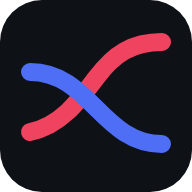
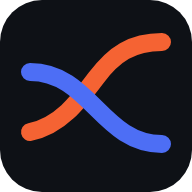
D10 P3: run is coral, with its own ink, a run ramp that never reads as alarm, and a job for volt (RCA-035)
Run colour #e44f27 light, #f56333 dark (was crimson, 12 CIEDE2000 from the status red). Light coral nudged
from the design's #e8532b so the level ladder's ring clears 3:1 on its band; that band's alpha drops to 14.
New --run-ink, --highlight and --highlight-ink. New run zone ramp, orange into umber, hand-fitted to the
zone rules (steps 2-3 light nudged for colour-blind separation). zoneRamp rule changed as designed; ride
unchanged. Icons, social card, privacy page and share card hexes follow. Digests unchanged.

Changed region(s): [[0.4062, 0.1562, 0.9062, 0.5], [0.0938, 0.5, 0.4375, 0.75]]

diff --git a/apps/web/src/styles/zoneRamp.test.ts b/apps/web/src/styles/zoneRamp.test.ts
@@ -24,9 +24,20 @@ const TEXT = 4.5
  * and each step is also numbered.
  */
 const NEIGHBOUR: Record<string, number> = { light: 7, dark: 5 }
-/** In dark, the least chroma (OKLCH) of any step, and the lightest a step may be: effort never fades to pale. */
+/** Ride dark: the least chroma (OKLCH) of any step, and the lightest a step may be; effort never fades to pale. */
 const DARK_MIN_CHROMA = 0.12
 const DARK_MAX_LIGHTNESS = 0.8
+/**
+ * The run ramp runs from orange into umber and its chroma falls toward the strong end, so effort
+ * deepens into earth and never into the status red. Steps 1 to 3 keep chroma 0.12 or more and steps 4
+ * and 5 keep 0.07 or more, in both schemes; no step is paler than 0.90 lightness (OKLCH).
+ */
+const MIN_CHROMA = [0.12, 0.12, 0.12, 0.07, 0.07]
+const MAX_LIGHTNESS = 0.9
+/** The hues (OKLCH degrees) the run steps stay between: orange to umber. */
+const HUE_BAND = [36, 60] as const
+/** The least CIEDE2000 between any run step and the status red of its scheme. */
+const FROM_CRITICAL = 10
 const STEPS = [1, 2, 3, 4, 5] as const
 const SPORTS = ['run', 'ride'] as const
 
@@ -65,8 +76,8 @@ describe('the zone ramp', () => {
         }
       })
 
-      if (name === 'dark') {
-        it(`keeps every ${sport} step saturated and no step pale in dark: hard is not faded`, () => {
+      if (sport === 'ride' && name === 'dark') {
+        it('keeps every ride step saturated and no step pale in dark: hard is not faded', () => {
           const found = steps.map(oklch)
           for (const [i, step] of found.entries()) {
             expect(step.chroma, `zone ${i + 1} chroma`).toBeGreaterThanOrEqual(DARK_MIN_CHROMA)
@@ -77,6 +88,33 @@ describe('the zone ramp', () => {
           // The hardest zone is at least as saturated as the easiest, and more luminous.
           expect(found[4]!.chroma).toBeGreaterThanOrEqual(found[0]!.chroma - 0.02)
           expect(found[4]!.lightness).toBeGreaterThan(found[0]!.lightness)
+        })
+      }
+
+      if (sport === 'run') {
+        it(`keeps every run step saturated enough and none pale in ${name}`, () => {
+          const found = steps.map(oklch)
+          for (const [i, step] of found.entries()) {
+            expect(step.chroma, `zone ${i + 1} chroma`).toBeGreaterThanOrEqual(MIN_CHROMA[i]!)
+            expect(step.lightness, `zone ${i + 1} lightness`).toBeLessThanOrEqual(MAX_LIGHTNESS)
+          }
+        })
+
+        it(`keeps every run step ${FROM_CRITICAL} from the status red in ${name}`, () => {
+          const critical = colour(tokens, 'status-critical')
+          for (const [i, step] of steps.entries()) {
+            expect(deltaE(step, critical), `zone ${i + 1}`).toBeGreaterThanOrEqual(FROM_CRITICAL)
+          }
+        })
+
+        it(`runs the ${name} steps through the orange to umber band, with chroma falling toward zone 5`, () => {
+          const found = steps.map(oklch)
+          expect(found[4]!.chroma).toBeLessThan(found[0]!.chroma)
+          // Red is hue 25; the ramp stays in the orange to umber band.
+          for (const step of found) {
+            expect(step.hue).toBeGreaterThanOrEqual(HUE_BAND[0])
+            expect(step.hue).toBeLessThanOrEqual(HUE_BAND[1])
+          }
         })
       }
 

diff --git a/apps/web/src/styles/tokens.css b/apps/web/src/styles/tokens.css
@@ -15,6 +15,8 @@
   --brand: #c8f03c;
   --accent: #0e1116;
   --accent-contrast: var(--brand);
+  --highlight: var(--brand);
+  --highlight-ink: #0e1116;
   --accent-hover: #474f5c;
   --accent-pressed: #000000;
   /* The brand mark's tile is ink; its ring is ink too in light, where the tile needs none. */
@@ -26,13 +28,14 @@
   --focus: #0e1116;
 
   /* Sport identity: fixed everywhere in the app */
-  --series-run: #e5304f;
+  --series-run: #e44f27;
   --series-ride: #2f56e8;
   --series-swim: #0f9fb0;
-  --series-run-soft: #e5304f26;
+  --run-ink: #b83a12;
+  --series-run-soft: #e44f2726;
   --series-ride-soft: #2f56e826;
   --series-swim-soft: #0f9fb026;
-  --ladder-run-band: #e5304f26;
+  --ladder-run-band: #e44f2714;
   --ladder-ride-band: #2f56e826;
   --neutral-mark: #474f5c;
   --neutral-band: #474f5c24;
@@ -40,16 +43,17 @@
   --grid: #d0d5de;
   /*
    * The zone ramp: five steps for each sport, lowest effort first. In light the steps darken with effort; in
-   * dark they get more luminous at full saturation, never paler. Each step keeps 3:1 against the card, its ink
-   * (--zone-ink-n, one per step for both sports) keeps 4.5:1, and a neighbour is at least 7 apart in CIEDE2000
-   * under every colour vision in light and 5 in dark, where the steps stay saturated.
+   * dark they get more luminous. Each step keeps 3:1 against the card, its ink (--zone-ink-n, one per step for
+   * both sports) keeps 4.5:1, and a neighbour is at least 7 apart in CIEDE2000 under every colour vision in
+   * light and 5 in dark. The run ramp runs from orange into umber, and its chroma falls toward the strong end,
+   * so effort deepens into earth and never into the status red; ride is blue throughout.
    * styles/zoneRamp.test.ts checks all of it from these values.
    */
-  --zone-run-1: #e16265;
-  --zone-run-2: #d0293d;
-  --zone-run-3: #a90227;
-  --zone-run-4: #750017;
-  --zone-run-5: #410008;
+  --zone-run-1: #d57029;
+  --zone-run-2: #c94e0c;
+  --zone-run-3: #a63d02;
+  --zone-run-4: #7d2d05;
+  --zone-run-5: #552b14;
   --zone-ride-1: #6589d3;
   --zone-ride-2: #3c67c9;
   --zone-ride-3: #1844b9;
@@ -178,23 +182,24 @@
     --selected-contrast: #0e1116;
     --link: #eef0f3;
     --focus: #c8f03c;
-    --series-run: #f0435f;
+    --series-run: #f56333;
     --series-ride: #4d6ef5;
     --series-swim: #14a0b0;
-    --series-run-soft: #f0435f33;
+    --run-ink: #f56333;
+    --series-run-soft: #f5633333;
     --series-ride-soft: #4d6ef533;
     --series-swim-soft: #14a0b033;
-    --ladder-run-band: #f0435f26;
+    --ladder-run-band: #f5633326;
     --ladder-ride-band: #4d6ef526;
     --neutral-mark: #b6bcc6;
     --neutral-band: #b6bcc629;
     --previous-mark: #737b89;
     --grid: #343b47;
-    --zone-run-1: #b43d52;
-    --zone-run-2: #ca4556;
-    --zone-run-3: #de555d;
-    --zone-run-4: #ee716e;
-    --zone-run-5: #ff897f;
+    --zone-run-1: #b34f2c;
+    --zone-run-2: #ce470d;
+    --zone-run-3: #f57e4d;
+    --zone-run-4: #fba774;
+    --zone-run-5: #fdc8a1;
     --zone-ride-1: #5061b3;
     --zone-ride-2: #4f70d6;
     --zone-ride-3: #4a81f4;

diff --git a/apps/web/src/styles/runColour.test.ts b/apps/web/src/styles/runColour.test.ts
@@ -1,0 +1,65 @@
+import { describe, expect, it } from 'vitest'
+import { readStylesheet } from '../ui/components/stylesheet'
+import { DEFICIENCIES, deltaE, simulate } from './colourDifference'
+import { contrast } from './contrastMath'
+import { colour, declared, resolved } from './tokenSheet'
+import type { Tokens } from './tokenSheet'
+
+const tokensCss = await readStylesheet(import.meta.url, './tokens.css')
+const lightRaw = declared(tokensCss, ':root')
+const darkRaw = declared(tokensCss, ":root:not([data-theme='light'])")
+const schemes: [string, Tokens][] = [
+  ['light', resolved(lightRaw)],
+  ['dark', resolved(new Map([...lightRaw, ...darkRaw]))],
+]
+
+/** The least CIEDE2000 between two colours to a reader with normal vision and with the worst deficiency. */
+function apart(first: string, second: string): { normal: number; worst: number } {
+  const normal = deltaE(first, second)
+  const worst = Math.min(
+    normal,
+    ...DEFICIENCIES.map((deficiency) =>
+      deltaE(simulate(first, deficiency), simulate(second, deficiency)),
+    ),
+  )
+  return { normal, worst }
+}
+
+describe('the run colour is coral, owned apart from the status red', () => {
+  it.each(schemes)('%s: coral clears the card and the page by 3:1', (_name, tokens) => {
+    for (const surface of ['surface-0', 'surface-1']) {
+      expect(
+        contrast(colour(tokens, 'series-run'), colour(tokens, surface)),
+      ).toBeGreaterThanOrEqual(3)
+    }
+  })
+
+  it.each(schemes)(
+    '%s: coral is 14 from the critical red, and 10 under the worst vision',
+    (_name, tokens) => {
+      const { normal, worst } = apart(
+        colour(tokens, 'series-run'),
+        colour(tokens, 'status-critical'),
+      )
+      expect(normal).toBeGreaterThanOrEqual(14)
+      expect(worst).toBeGreaterThanOrEqual(10)
+    },
+  )
+
+  it.each(schemes)('%s: coral is 38 from the ride blue under every vision', (_name, tokens) => {
+    const { worst } = apart(colour(tokens, 'series-run'), colour(tokens, 'series-ride'))
+    expect(worst).toBeGreaterThanOrEqual(38)
+  })
+
+  it.each(schemes)('%s: the run ink reads 4.5:1 on the page and on the card', (_name, tokens) => {
+    for (const surface of ['surface-0', 'surface-1']) {
+      expect(contrast(colour(tokens, 'run-ink'), colour(tokens, surface))).toBeGreaterThanOrEqual(
+        4.5,
+      )
+    }
+  })
+
+  it('is no longer the crimson it replaced', () => {
+    expect(tokensCss).not.toMatch(/e5304f|f0435f/i)
+  })
+})

diff --git a/apps/web/src/styles/colourDifference.ts b/apps/web/src/styles/colourDifference.ts
@@ -109,8 +109,8 @@ export function deltaELab(first: readonly number[], second: readonly number[]): 
   return Math.sqrt((dL / sl) ** 2 + (dC / sc) ** 2 + (dH / sh) ** 2 + rt * (dC / sc) * (dH / sh))
 }
 
-/** The colour in OKLCH: its lightness, 0 to 1, and its chroma, about 0 for a grey and 0.3 for the most vivid. */
-export function oklch(hex: string): { lightness: number; chroma: number } {
+/** The colour in OKLCH: its lightness, 0 to 1, its chroma, about 0 for a grey and 0.3 for the most vivid, and its hue in degrees. */
+export function oklch(hex: string): { lightness: number; chroma: number; hue: number } {
   const [r, g, b] = linear(hex)
   const l = Math.cbrt(0.4122214708 * r + 0.5363325363 * g + 0.0514459929 * b)
   const m = Math.cbrt(0.2119034982 * r + 0.6806995451 * g + 0.1073969566 * b)
@@ -120,5 +120,6 @@ export function oklch(hex: string): { lightness: number; chroma: number } {
   return {
     lightness: 0.2104542553 * l + 0.793617785 * m - 0.0040720468 * s,
     chroma: Math.hypot(a, bb),
+    hue: ((Math.atan2(bb, a) * 180) / Math.PI + 360) % 360,
   }
 }

diff --git a/apps/web/src/styles/colourDifference.test.ts b/apps/web/src/styles/colourDifference.test.ts
@@ -37,8 +37,8 @@ describe('deltaELab', () => {
 
 describe('deltaE', () => {
   it('is 0 for the same colour and symmetric', () => {
-    expect(deltaE('#e5304f', '#e5304f')).toBe(0)
-    expect(deltaE('#e5304f', '#2f56e8')).toBeCloseTo(deltaE('#2f56e8', '#e5304f'), 9)
+    expect(deltaE('#e44f27', '#e44f27')).toBe(0)
+    expect(deltaE('#e44f27', '#2f56e8')).toBeCloseTo(deltaE('#2f56e8', '#e44f27'), 9)
   })
 
   it('puts white against black near 100', () => {
@@ -60,8 +60,8 @@ describe('simulate', () => {
   it('takes the red out of a red for a reader without red cones', () => {
     // A run coral and a green of the same lightness are told apart by hue; without red cones they converge.
     expect(
-      deltaE(simulate('#e5304f', 'protanopia'), simulate('#2f9e44', 'protanopia')),
-    ).toBeLessThan(deltaE('#e5304f', '#2f9e44'))
+      deltaE(simulate('#e44f27', 'protanopia'), simulate('#2f9e44', 'protanopia')),
+    ).toBeLessThan(deltaE('#e44f27', '#2f9e44'))
   })
 })
 

diff --git a/apps/web/src/styles/visual.test.ts b/apps/web/src/styles/visual.test.ts
@@ -310,7 +310,7 @@ describe('pressed states', () => {
     expect(unselected).toMatch(/background:\s*var\(--surface-pressed\)/)
     expect(unselected).toMatch(/box-shadow:\s*inset 0 0 0 2px var\(--control-border\)/)
     expect(rulesWith(segmented, '.segmented-control__option--selected:active')).toMatch(
-      /box-shadow:\s*inset 0 0 0 2px var\(--selected-contrast\)/,
+      /box-shadow:\s*inset 0 0 0 2px var\(--highlight-ink\)/,
     )
   })
 
@@ -723,7 +723,7 @@ describe('global controls', () => {
 
   it('keeps the current Pager page filled on hover and press, as its rule outranks the generic button rules', () => {
     expect(rulesWith(pagerCss, ".pager .pager__page[aria-current='page']")).toMatch(
-      /background:\s*var\(--selected\)/,
+      /background:\s*var\(--highlight\)/,
     )
   })
 

diff --git a/apps/web/src/styles/sweep.test.ts b/apps/web/src/styles/sweep.test.ts
@@ -225,7 +225,7 @@ const SERIES_TOKEN = /--series-(?:run|ride|swim)(?:-soft)?\b/
  * name built from a sport. A class such as `chart-series__area--${sport}` is not a token, so it passes.
  */
 const SERIES_SOURCE = /--series-(?:run|ride|swim)(?:-soft)?\b|var\(--\$\{|--series-\$\{/
-const SPORT_HEX = /#(?:e5304f|f0435f|2f56e8|4d6ef5|0f9fb0|14a0b0)(?:[0-9a-f]{2})?\b/i
+const SPORT_HEX = /#(?:e44f27|f56333|2f56e8|4d6ef5|0f9fb0|14a0b0)(?:[0-9a-f]{2})?\b/i
 
 /** Each selector, from a stylesheet's rules, whose declarations name a series colour token. */
 function seriesSelectorsOf(css: string): string[] {

diff --git a/apps/web/src/styles/tokens.test.ts b/apps/web/src/styles/tokens.test.ts
@@ -64,9 +64,12 @@ const PAIRS: [string, string, number][] = [
   ['control-border', 'surface-2', GRAPHIC],
   ['accent-contrast', 'accent', TEXT],
   ['selected-contrast', 'selected', TEXT],
+  ['highlight-ink', 'highlight', TEXT],
   ['focus', 'surface-0', GRAPHIC],
   ['focus', 'surface-1', GRAPHIC],
   ['series-run', 'surface-1', GRAPHIC],
+  ['run-ink', 'surface-0', TEXT],
+  ['run-ink', 'surface-1', TEXT],
   ['series-ride', 'surface-1', GRAPHIC],
   ['series-swim', 'surface-1', GRAPHIC],
   ['status-warning', 'surface-1', TEXT],

diff --git a/apps/web/src/ui/components/SegmentedControl.css b/apps/web/src/ui/components/SegmentedControl.css
@@ -66,14 +66,14 @@
 }
 
 .segmented-control__option--selected:active {
-  box-shadow: inset 0 0 0 2px var(--selected-contrast);
+  box-shadow: inset 0 0 0 2px var(--highlight-ink);
 }
 
 /* The checked state uses weight and a filled background, not colour alone. */
 .segmented-control__option--selected {
-  background: var(--selected);
+  background: var(--highlight);
   border-color: var(--selected);
-  color: var(--selected-contrast);
+  color: var(--highlight-ink);
   font-weight: 600;
 }
 

diff --git a/apps/web/src/ui/components/Pager.css b/apps/web/src/ui/components/Pager.css
@@ -35,9 +35,9 @@
    nothing, so it keeps the selected look rather than the pressed fill, which would lose its label. */
 .pager .pager__page[aria-current='page'],
 .pager .pager__page[aria-current='page']:active {
-  background: var(--selected);
+  background: var(--highlight);
   border-color: var(--selected);
-  color: var(--selected-contrast);
+  color: var(--highlight-ink);
   font-weight: 700;
 }
 

diff --git a/apps/web/src/styles/privacy.css b/apps/web/src/styles/privacy.css
@@ -24,7 +24,7 @@
   --rule: #e1e4ea;
   --mark-tile: #0e1116;
   --mark-ring: #0e1116;
-  --series-run: #e5304f;
+  --series-run: #e44f27;
   --series-ride: #2f56e8;
 }
 
@@ -37,7 +37,7 @@
     --rule: #2a2f38;
     --mark-tile: #0e1116;
     --mark-ring: #6b7380;
-    --series-run: #f0435f;
+    --series-run: #f56333;
     --series-ride: #4d6ef5;
   }
 }

diff --git a/apps/web/src/ui/pages/FitnessCard.css b/apps/web/src/ui/pages/FitnessCard.css
@@ -71,8 +71,8 @@
 .fitness-card__new strong {
   padding: 3px 8px;
   border-radius: var(--radius-sm);
-  background: var(--selected);
-  color: var(--selected-contrast);
+  background: var(--highlight);
+  color: var(--highlight-ink);
   font-family: var(--font-display);
   font-size: var(--text-sm);
   letter-spacing: var(--tracking-caps);
